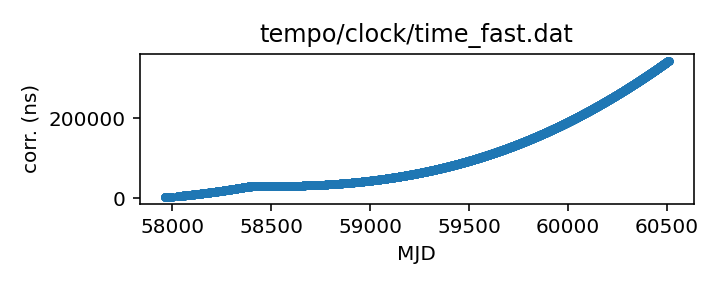
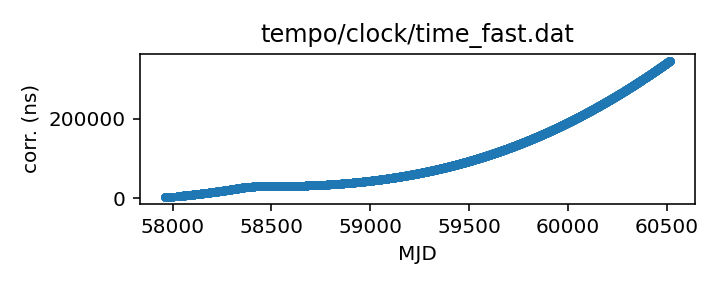
Routine gh-pages update from Github action Fri Jul 26 20:31:46 UTC 2024

Changed region(s): [[0.3667, 0.0625, 0.7944, 0.1562], [0.55, 0.8438, 0.6111, 0.9062], [0.8861, 0.25, 0.9167, 0.2812]]

diff --git a/status.md b/status.md
@@ -13,18 +13,18 @@ name of each clock file links to a page with more details.
 
 | Name | File | Corrections start | Corrections end | Last check date | Last check result 
 |:--- |:--- | --- | --- | --- |:--- 
-| [GPS to UTC](T2runtime/clock/gps2utc.clk.html) | `T2runtime/clock/gps2utc.clk` | 1993-01-01 MJD 48988.0 | 2024-04-29 MJD 60429.0 | 2024-07-25 | Unchanged 
-| [GPS to UTC (Combined Clock)](T2runtime/clock/gps2utc_cc.clk.html) | `T2runtime/clock/gps2utc_cc.clk` | 1993-01-01 MJD 48988.0 | 2024-04-29 MJD 60429.0 | 2024-07-25 | Unchanged 
-| [GPS to UTC (Corrected)](T2runtime/clock/gps2utc_c0p.clk.html) | `T2runtime/clock/gps2utc_c0p.clk` | 2010-12-29 MJD 55559.0 | 2024-04-29 MJD 60429.0 | 2024-07-25 | Unchanged 
-| [GBT](tempo/clock/time_gbt.dat.html) | `tempo/clock/time_gbt.dat` | 2000-12-31 MJD 51909.5 | 2024-05-18 MJD 60448.5 | 2024-07-25 | **Validation failed** 
+| [GPS to UTC](T2runtime/clock/gps2utc.clk.html) | `T2runtime/clock/gps2utc.clk` | 1993-01-01 MJD 48988.0 | 2024-04-29 MJD 60429.0 | 2024-07-26 | Unchanged 
+| [GPS to UTC (Combined Clock)](T2runtime/clock/gps2utc_cc.clk.html) | `T2runtime/clock/gps2utc_cc.clk` | 1993-01-01 MJD 48988.0 | 2024-04-29 MJD 60429.0 | 2024-07-26 | Unchanged 
+| [GPS to UTC (Corrected)](T2runtime/clock/gps2utc_c0p.clk.html) | `T2runtime/clock/gps2utc_c0p.clk` | 2010-12-29 MJD 55559.0 | 2024-04-29 MJD 60429.0 | 2024-07-26 | Unchanged 
+| [GBT](tempo/clock/time_gbt.dat.html) | `tempo/clock/time_gbt.dat` | 2000-12-31 MJD 51909.5 | 2024-05-18 MJD 60448.5 | 2024-07-26 | **Validation failed** 
 | [GBT (TEMPO2 converted from TEMPO)](T2runtime/clock/gbt2gps.clk.html) | `T2runtime/clock/gbt2gps.clk` | 2000-12-31 MJD 51909.5 | 2024-05-18 MJD 60448.5 | 2024-05-19 | Updated 
-| [Jodrell Bank](T2runtime/clock/jb2gps.clk.html) | `T2runtime/clock/jb2gps.clk` | 2006-10-13 MJD 54021.4 | 2023-12-04 MJD 60282.0 | 2024-07-19 | Unchanged 
-| [Jodrell Bank Roach](T2runtime/clock/jbroach2jb.clk.html) | `T2runtime/clock/jbroach2jb.clk` | 2006-10-13 MJD 54021.4 | 2018-03-20 MJD 58197.6 | 2024-07-19 | Unchanged 
-| [Jodrell Bank DFB](T2runtime/clock/jbdfb2jb.clk.html) | `T2runtime/clock/jbdfb2jb.clk` | 2006-10-13 MJD 54021.4 | 2017-05-11 MJD 57884.0 | 2024-07-19 | Unchanged 
-| [Meerkat (observatory)](T2runtime/clock/mk2utc_observatory.clk.html) | `T2runtime/clock/mk2utc_observatory.clk` | 2019-01-01 MJD 58484.0 | 2024-04-24 MJD 60425.0 | 2024-07-19 | **Failed to download** 
-| [Leap seconds](tempo/clock/leap.sec.html) | `tempo/clock/leap.sec` | 1972-07-01 MJD 41499.0 | 2017-01-01 MJD 57754.0 | 2024-07-25 | Unchanged 
-| [UT1 table](tempo/clock/ut1.dat.html) | `tempo/clock/ut1.dat` | 1973-01-02 MJD 41684.0 | 2025-08-02 MJD 60889.0 | 2024-07-25 | Updated 
-| [UT1 table](T2runtime/clock/ut1.dat.html) | `T2runtime/clock/ut1.dat` | 1973-01-02 MJD 41684.0 | 2025-08-02 MJD 60889.0 | 2024-07-25 | Updated 
+| [Jodrell Bank](T2runtime/clock/jb2gps.clk.html) | `T2runtime/clock/jb2gps.clk` | 2006-10-13 MJD 54021.4 | 2023-12-04 MJD 60282.0 | 2024-07-26 | Unchanged 
+| [Jodrell Bank Roach](T2runtime/clock/jbroach2jb.clk.html) | `T2runtime/clock/jbroach2jb.clk` | 2006-10-13 MJD 54021.4 | 2018-03-20 MJD 58197.6 | 2024-07-26 | Unchanged 
+| [Jodrell Bank DFB](T2runtime/clock/jbdfb2jb.clk.html) | `T2runtime/clock/jbdfb2jb.clk` | 2006-10-13 MJD 54021.4 | 2017-05-11 MJD 57884.0 | 2024-07-26 | Unchanged 
+| [Meerkat (observatory)](T2runtime/clock/mk2utc_observatory.clk.html) | `T2runtime/clock/mk2utc_observatory.clk` | 2019-01-01 MJD 58484.0 | 2024-04-24 MJD 60425.0 | 2024-07-26 | **Failed to download** 
+| [Leap seconds](tempo/clock/leap.sec.html) | `tempo/clock/leap.sec` | 1972-07-01 MJD 41499.0 | 2017-01-01 MJD 57754.0 | 2024-07-26 | Unchanged 
+| [UT1 table](tempo/clock/ut1.dat.html) | `tempo/clock/ut1.dat` | 1973-01-02 MJD 41684.0 | 2025-08-02 MJD 60889.0 | 2024-07-26 | Unchanged 
+| [UT1 table](T2runtime/clock/ut1.dat.html) | `T2runtime/clock/ut1.dat` | 1973-01-02 MJD 41684.0 | 2025-08-02 MJD 60889.0 | 2024-07-26 | Unchanged 
 
 
 
@@ -67,26 +67,26 @@ name of each clock file links to a page with more details.
 
 | Name | File | Corrections start | Corrections end | Last check date | Last check result 
 |:--- |:--- | --- | --- | --- |:--- 
-| [GPS to UTC (TEMPO2)](T2runtime/clock/gps2utc_tempo2.clk.html) | `T2runtime/clock/gps2utc_tempo2.clk` | 1996-03-27 MJD 50169.0 | 2022-10-27 MJD 59879.0 | 2024-07-19 | **Failed to download** 
-| [GBT (TEMPO2)](T2runtime/clock/gbt2gps_tempo2.clk.html) | `T2runtime/clock/gbt2gps_tempo2.clk` | 2000-12-31 MJD 51909.5 | 2020-02-25 MJD 58904.5 | 2024-07-19 | Unchanged 
-| [Jodrell Bank (TEMPO)](tempo/clock/time_jb.dat.html) | `tempo/clock/time_jb.dat` | 2006-10-13 MJD 54021.4 | 2019-05-13 MJD 58616.2 | 2024-07-19 | Unchanged 
-| [VLA](tempo/clock/time_vla.dat.html) | `tempo/clock/time_vla.dat` | 1990-10-27 MJD 48191.2 | 2021-03-07 MJD 59280.5 | 2024-07-19 | Unchanged 
-| [VLA (TEMPO2)](T2runtime/clock/vla2gps.clk.html) | `T2runtime/clock/vla2gps.clk` | 2015-02-01 MJD 57054.6 | 2021-03-07 MJD 59280.5 | 2024-07-19 | Unchanged 
-| [VLA to NIST](T2runtime/clock/vla2nist.clk.html) | `T2runtime/clock/vla2nist.clk` | 1990-10-27 MJD 48191.2 | 1993-11-13 MJD 49304.0 | 2024-07-19 | Unchanged 
-| [FAST](tempo/clock/time_fast.dat.html) | `tempo/clock/time_fast.dat` | 2017-07-27 MJD 57961.0 | 2024-07-17 MJD 60509.0 | 2024-07-19 | Updated 
-| [WSRT](T2runtime/clock/wsrt2gps.clk.html) | `T2runtime/clock/wsrt2gps.clk` | 1999-01-01 MJD 51179.5 | 2015-06-29 MJD 57202.1 | 2024-07-19 | Unchanged 
-| [WSRT (TEMPO)](tempo/clock/time_wsrt.dat.html) | `tempo/clock/time_wsrt.dat` | 1987-07-24 MJD 47000.0 | 2007-12-24 MJD 54458.0 | 2024-07-19 | **Validation failed** 
-| [Parkes](T2runtime/clock/pks2gps.clk.html) | `T2runtime/clock/pks2gps.clk` | 1858-11-17 MJD 0.0 | 2024-06-30 MJD 60491.1 | 2024-07-19 | Unchanged 
-| [Parkes (TEMPO)](tempo/clock/time_pks.dat.html) | `tempo/clock/time_pks.dat` | 1979-05-07 MJD 44000.0 | 2011-07-03 MJD 55745.8 | 2024-07-19 | **Validation failed** 
-| [SRT](T2runtime/clock/srt2gps.clk.html) | `T2runtime/clock/srt2gps.clk` | 2013-03-20 MJD 56371.0 | 2019-12-11 MJD 58828.0 | 2024-07-19 | Unchanged 
-| [Effelsberg](T2runtime/clock/eff2gps.clk.html) | `T2runtime/clock/eff2gps.clk` | 1993-11-29 MJD 49320.0 | 2015-06-22 MJD 57195.5 | 2024-07-19 | Unchanged 
-| [Effelsberg Asterix/PSRix](T2runtime/clock/effix2gps.clk.html) | `T2runtime/clock/effix2gps.clk` | 2011-01-01 MJD 55562.5 | 2021-03-21 MJD 59294.5 | 2024-07-19 | Unchanged 
-| [LEAP](T2runtime/clock/leap2effix.clk.html) | `T2runtime/clock/leap2effix.clk` | 2012-10-29 MJD 56230.0 | 2014-03-04 MJD 56720.0 | 2024-07-19 | Unchanged 
-| [NUPPI](tempo/clock/time_nuppi.dat.html) | `tempo/clock/time_nuppi.dat` | 2005-03-07 MJD 53436.0 | 2015-11-08 MJD 57334.6 | 2024-07-19 | Unchanged 
-| [Meerkat (TEMPO2)](T2runtime/clock/mk2utc.clk.html) | `T2runtime/clock/mk2utc.clk` | 2019-01-01 MJD 58484.0 | 2023-10-18 MJD 60235.9 | 2024-07-19 | Unchanged 
-| [MOST](T2runtime/clock/mo2gps.clk.html) | `T2runtime/clock/mo2gps.clk` | 2003-12-27 MJD 53000.0 | 2018-09-06 MJD 58367.0 | 2024-07-19 | Unchanged 
-| [Nancay to obspm](T2runtime/clock/ncyobs2obspm.clk.html) | `T2runtime/clock/ncyobs2obspm.clk` | 1988-05-18 MJD 47299.6 | 2023-10-27 MJD 60244.0 | 2024-07-19 | Unchanged 
-| [obspm](T2runtime/clock/obspm2gps.clk.html) | `T2runtime/clock/obspm2gps.clk` | 2003-12-01 MJD 52974.0 | 2023-10-27 MJD 60244.0 | 2024-07-19 | Unchanged 
+| [GPS to UTC (TEMPO2)](T2runtime/clock/gps2utc_tempo2.clk.html) | `T2runtime/clock/gps2utc_tempo2.clk` | 1996-03-27 MJD 50169.0 | 2022-10-27 MJD 59879.0 | 2024-07-26 | **Failed to download** 
+| [GBT (TEMPO2)](T2runtime/clock/gbt2gps_tempo2.clk.html) | `T2runtime/clock/gbt2gps_tempo2.clk` | 2000-12-31 MJD 51909.5 | 2020-02-25 MJD 58904.5 | 2024-07-26 | Unchanged 
+| [Jodrell Bank (TEMPO)](tempo/clock/time_jb.dat.html) | `tempo/clock/time_jb.dat` | 2006-10-13 MJD 54021.4 | 2019-05-13 MJD 58616.2 | 2024-07-26 | Unchanged 
+| [VLA](tempo/clock/time_vla.dat.html) | `tempo/clock/time_vla.dat` | 1990-10-27 MJD 48191.2 | 2021-03-07 MJD 59280.5 | 2024-07-26 | Unchanged 
+| [VLA (TEMPO2)](T2runtime/clock/vla2gps.clk.html) | `T2runtime/clock/vla2gps.clk` | 2015-02-01 MJD 57054.6 | 2021-03-07 MJD 59280.5 | 2024-07-26 | Unchanged 
+| [VLA to NIST](T2runtime/clock/vla2nist.clk.html) | `T2runtime/clock/vla2nist.clk` | 1990-10-27 MJD 48191.2 | 1993-11-13 MJD 49304.0 | 2024-07-26 | Unchanged 
+| [FAST](tempo/clock/time_fast.dat.html) | `tempo/clock/time_fast.dat` | 2017-07-27 MJD 57961.0 | 2024-07-24 MJD 60516.0 | 2024-07-26 | Updated 
+| [WSRT](T2runtime/clock/wsrt2gps.clk.html) | `T2runtime/clock/wsrt2gps.clk` | 1999-01-01 MJD 51179.5 | 2015-06-29 MJD 57202.1 | 2024-07-26 | Unchanged 
+| [WSRT (TEMPO)](tempo/clock/time_wsrt.dat.html) | `tempo/clock/time_wsrt.dat` | 1987-07-24 MJD 47000.0 | 2007-12-24 MJD 54458.0 | 2024-07-26 | **Validation failed** 
+| [Parkes](T2runtime/clock/pks2gps.clk.html) | `T2runtime/clock/pks2gps.clk` | 1858-11-17 MJD 0.0 | 2024-06-30 MJD 60491.1 | 2024-07-26 | Unchanged 
+| [Parkes (TEMPO)](tempo/clock/time_pks.dat.html) | `tempo/clock/time_pks.dat` | 1979-05-07 MJD 44000.0 | 2011-07-03 MJD 55745.8 | 2024-07-26 | **Validation failed** 
+| [SRT](T2runtime/clock/srt2gps.clk.html) | `T2runtime/clock/srt2gps.clk` | 2013-03-20 MJD 56371.0 | 2019-12-11 MJD 58828.0 | 2024-07-26 | Unchanged 
+| [Effelsberg](T2runtime/clock/eff2gps.clk.html) | `T2runtime/clock/eff2gps.clk` | 1993-11-29 MJD 49320.0 | 2015-06-22 MJD 57195.5 | 2024-07-26 | Unchanged 
+| [Effelsberg Asterix/PSRix](T2runtime/clock/effix2gps.clk.html) | `T2runtime/clock/effix2gps.clk` | 2011-01-01 MJD 55562.5 | 2021-03-21 MJD 59294.5 | 2024-07-26 | Unchanged 
+| [LEAP](T2runtime/clock/leap2effix.clk.html) | `T2runtime/clock/leap2effix.clk` | 2012-10-29 MJD 56230.0 | 2014-03-04 MJD 56720.0 | 2024-07-26 | Unchanged 
+| [NUPPI](tempo/clock/time_nuppi.dat.html) | `tempo/clock/time_nuppi.dat` | 2005-03-07 MJD 53436.0 | 2015-11-08 MJD 57334.6 | 2024-07-26 | Unchanged 
+| [Meerkat (TEMPO2)](T2runtime/clock/mk2utc.clk.html) | `T2runtime/clock/mk2utc.clk` | 2019-01-01 MJD 58484.0 | 2023-10-18 MJD 60235.9 | 2024-07-26 | Unchanged 
+| [MOST](T2runtime/clock/mo2gps.clk.html) | `T2runtime/clock/mo2gps.clk` | 2003-12-27 MJD 53000.0 | 2018-09-06 MJD 58367.0 | 2024-07-26 | Unchanged 
+| [Nancay to obspm](T2runtime/clock/ncyobs2obspm.clk.html) | `T2runtime/clock/ncyobs2obspm.clk` | 1988-05-18 MJD 47299.6 | 2023-10-27 MJD 60244.0 | 2024-07-26 | Unchanged 
+| [obspm](T2runtime/clock/obspm2gps.clk.html) | `T2runtime/clock/obspm2gps.clk` | 2003-12-01 MJD 52974.0 | 2023-10-27 MJD 60244.0 | 2024-07-26 | Unchanged 
 
 
 ### Further information:

diff --git a/tempo/clock/time_pks.dat.md b/tempo/clock/time_pks.dat.md
@@ -20,12 +20,11 @@ telescopes in the same file, distinguished only by observatory code.
 | Clock file start | 1979-05-07 MJD 44000.0 |
 | Clock file end | 2011-07-03 MJD 55745.8 |
 | Update interval (days) | 7 |
-| Last update attempt | 2024-07-19 |
+| Last update attempt | 2024-07-26 |
 | Last update result | Validation failed |
 
 Log entries from the last few update attempts:
 ```
-2024-05-17 20:29:45.220 - Validation failed: Unable to read new version of tempo/clock/time_pks.dat: Clock file /tmp/astropy-download-1787-teivf2pi appears to be out of order: 49959.0 > 49958.0
 2024-05-24 20:29:37.029 - Validation failed: Unable to read new version of tempo/clock/time_pks.dat: Clock file /tmp/astropy-download-1896-lx9qc25x appears to be out of order: 49959.0 > 49958.0
 2024-05-31 20:29:34.723 - Validation failed: Unable to read new version of tempo/clock/time_pks.dat: Clock file /tmp/astropy-download-1808-9uv0anl1 appears to be out of order: 49959.0 > 49958.0
 2024-06-07 20:29:32.720 - Validation failed: Unable to read new version of tempo/clock/time_pks.dat: Clock file /tmp/astropy-download-1810-bf_kz8b_ appears to be out of order: 49959.0 > 49958.0
@@ -35,6 +34,7 @@ Log entries from the last few update attempts:
 2024-07-05 20:29:58.943 - Validation failed: Unable to read new version of tempo/clock/time_pks.dat: Clock file /tmp/astropy-download-1810-trqtm1kr appears to be out of order: 49959.0 > 49958.0
 2024-07-12 20:29:38.960 - Validation failed: Unable to read new version of tempo/clock/time_pks.dat: Clock file /tmp/astropy-download-1798-05ao87af appears to be out of order: 49959.0 > 49958.0
 2024-07-19 20:31:11.515 - Validation failed: Unable to read new version of tempo/clock/time_pks.dat: Clock file /tmp/astropy-download-1879-v7corvfs appears to be out of order: 49959.0 > 49958.0
+2024-07-26 20:31:11.561 - Validation failed: Unable to read new version of tempo/clock/time_pks.dat: Clock file /tmp/astropy-download-1771-ynhf0azv appears to be out of order: 49959.0 > 49958.0
 ```
 [Full log](https://raw.githubusercontent.com/ipta/pulsar-clock-corrections/main/log/tempo/clock/time_pks.dat.log)
 

diff --git a/tempo/clock/time_wsrt.dat.md b/tempo/clock/time_wsrt.dat.md
@@ -20,12 +20,11 @@ should be the same information.
 | Clock file start | 1987-07-24 MJD 47000.0 |
 | Clock file end | 2007-12-24 MJD 54458.0 |
 | Update interval (days) | 7 |
-| Last update attempt | 2024-07-19 |
+| Last update attempt | 2024-07-26 |
 | Last update result | Validation failed |
 
 Log entries from the last few update attempts:
 ```
-2024-05-17 20:29:41.596 - Validation failed: Unable to read new version of tempo/clock/time_wsrt.dat: Clock file /tmp/astropy-download-1787-h7p7w40s appears to be out of order: 53000.05 > 53000.0
 2024-05-24 20:29:31.949 - Validation failed: Unable to read new version of tempo/clock/time_wsrt.dat: Clock file /tmp/astropy-download-1896-o2eimvbo appears to be out of order: 53000.05 > 53000.0
 2024-05-31 20:29:29.819 - Validation failed: Unable to read new version of tempo/clock/time_wsrt.dat: Clock file /tmp/astropy-download-1808-s7arrwqh appears to be out of order: 53000.05 > 53000.0
 2024-06-07 20:29:27.848 - Validation failed: Unable to read new version of tempo/clock/time_wsrt.dat: Clock file /tmp/astropy-download-1810-vr839f9d appears to be out of order: 53000.05 > 53000.0
@@ -35,6 +34,7 @@ Log entries from the last few update attempts:
 2024-07-05 20:29:55.289 - Validation failed: Unable to read new version of tempo/clock/time_wsrt.dat: Clock file /tmp/astropy-download-1810-6x_oo0y2 appears to be out of order: 53000.05 > 53000.0
 2024-07-12 20:29:34.055 - Validation failed: Unable to read new version of tempo/clock/time_wsrt.dat: Clock file /tmp/astropy-download-1798-yen7urfq appears to be out of order: 53000.05 > 53000.0
 2024-07-19 20:31:07.763 - Validation failed: Unable to read new version of tempo/clock/time_wsrt.dat: Clock file /tmp/astropy-download-1879-ofamkhs8 appears to be out of order: 53000.05 > 53000.0
+2024-07-26 20:31:07.591 - Validation failed: Unable to read new version of tempo/clock/time_wsrt.dat: Clock file /tmp/astropy-download-1771-gsrg9qrm appears to be out of order: 53000.05 > 53000.0
 ```
 [Full log](https://raw.githubusercontent.com/ipta/pulsar-clock-corrections/main/log/tempo/clock/time_wsrt.dat.log)
 

diff --git a/tempo/clock/time_gbt.dat.md b/tempo/clock/time_gbt.dat.md
@@ -33,12 +33,11 @@ If questions arise, contact Ryan S. Lynch <rlynch@nrao.edu>.
 | Clock file start | 2000-12-31 MJD 51909.5 |
 | Clock file end | 2024-05-18 MJD 60448.5 |
 | Update interval (days) | 1 |
-| Last update attempt | 2024-07-25 |
+| Last update attempt | 2024-07-26 |
 | Last update result | Validation failed |
 
 Log entries from the last few update attempts:
 ```
-2024-07-16 20:29:26.200 - Validation failed: New version of tempo/clock/time_gbt.dat clock corrections differ from old version where they overlap in 11 places
 2024-07-17 20:29:50.997 - Validation failed: New version of tempo/clock/time_gbt.dat clock corrections differ from old version where they overlap in 11 places
 2024-07-18 20:29:59.918 - Validation failed: New version of tempo/clock/time_gbt.dat clock corrections differ from old version where they overlap in 11 places
 2024-07-19 20:31:02.747 - Validation failed: New version of tempo/clock/time_gbt.dat clock corrections differ from old version where they overlap in 11 places
@@ -48,6 +47,7 @@ Log entries from the last few update attempts:
 2024-07-23 20:29:50.920 - Validation failed: New version of tempo/clock/time_gbt.dat clock corrections differ from old version where they overlap in 11 places
 2024-07-24 20:29:37.378 - Validation failed: New version of tempo/clock/time_gbt.dat clock corrections differ from old version where they overlap in 11 places
 2024-07-25 20:29:35.888 - Validation failed: New version of tempo/clock/time_gbt.dat clock corrections differ from old version where they overlap in 11 places
+2024-07-26 20:31:04.102 - Validation failed: New version of tempo/clock/time_gbt.dat clock corrections differ from old version where they overlap in 11 places
 ```
 [Full log](https://raw.githubusercontent.com/ipta/pulsar-clock-corrections/main/log/tempo/clock/time_gbt.dat.log)
 

diff --git a/T2runtime/clock/gps2utc_tempo2.clk.md b/T2runtime/clock/gps2utc_tempo2.clk.md
@@ -27,12 +27,11 @@ are from the column C0').
 | Clock file start | 1996-03-27 MJD 50169.0 |
 | Clock file end | 2022-10-27 MJD 59879.0 |
 | Update interval (days) | 7 |
-| Last update attempt | 2024-07-19 |
+| Last update attempt | 2024-07-26 |
 | Last update result | Failed to download |
 
 Log entries from the last few update attempts:
 ```
-2024-05-17 20:29:05.507 - Failed to download: HTTP Error 404: Not Found
 2024-05-24 20:29:09.014 - Failed to download: HTTP Error 404: Not Found
 2024-05-31 20:29:06.760 - Failed to download: HTTP Error 404: Not Found
 2024-06-07 20:29:04.633 - Failed to download: HTTP Error 404: Not Found
@@ -42,6 +41,7 @@ Log entries from the last few update attempts:
 2024-07-05 20:29:14.464 - Failed to download: HTTP Error 404: Not Found
 2024-07-12 20:29:07.006 - Failed to download: HTTP Error 404: Not Found
 2024-07-19 20:30:26.761 - Failed to download: HTTP Error 404: Not Found
+2024-07-26 20:30:27.098 - Failed to download: HTTP Error 404: Not Found
 ```
 [Full log](https://raw.githubusercontent.com/ipta/pulsar-clock-corrections/main/log/T2runtime/clock/gps2utc_tempo2.clk.log)
 

diff --git a/T2runtime/clock/mk2utc_observatory.clk.md b/T2runtime/clock/mk2utc_observatory.clk.md
@@ -21,12 +21,11 @@ If questions arise, contact Ryan Shannon <rshannon@swin.edu.au>
 | Clock file start | 2019-01-01 MJD 58484.0 |
 | Clock file end | 2024-04-24 MJD 60425.0 |
 | Update interval (days) | 7 |
-| Last update attempt | 2024-07-19 |
+| Last update attempt | 2024-07-26 |
 | Last update result | Failed to download |
 
 Log entries from the last few update attempts:
 ```
-2024-05-17 20:29:50.578 - Unchanged
 2024-05-24 20:29:41.581 - Unchanged
 2024-05-31 20:29:41.668 - Unchanged
 2024-06-07 20:29:36.289 - Unchanged
@@ -36,6 +35,7 @@ Log entries from the last few update attempts:
 2024-07-05 20:30:07.740 - Unchanged
 2024-07-12 20:29:44.446 - Unchanged
 2024-07-19 20:31:14.053 - Failed to download: HTTP Error 403: Forbidden
+2024-07-26 20:31:14.162 - Failed to download: HTTP Error 403: Forbidden
 ```
 [Full log](https://raw.githubusercontent.com/ipta/pulsar-clock-corrections/main/log/T2runtime/clock/mk2utc_observatory.clk.log)
 

diff --git a/tempo/clock/time_fast.dat.md b/tempo/clock/time_fast.dat.md
@@ -14,14 +14,13 @@ This file is pulled from the FAST_ClockFile repository.
 | Format | tempo |
 | Bogus last correction | False |
 | Clock file start | 2017-07-27 MJD 57961.0 |
-| Clock file end | 2024-07-17 MJD 60509.0 |
+| Clock file end | 2024-07-24 MJD 60516.0 |
 | Update interval (days) | 7 |
-| Last update attempt | 2024-07-19 |
+| Last update attempt | 2024-07-26 |
 | Last update result | Updated |
 
 Log entries from the last few update attempts:
 ```
-2024-05-17 20:29:40.999 - Updated
 2024-05-24 20:29:31.229 - Updated
 2024-05-31 20:29:29.072 - Updated
 2024-06-07 20:29:27.480 - Updated
@@ -31,6 +30,7 @@ Log entries from the last few update attempts:
 2024-07-05 20:29:54.615 - Updated
 2024-07-12 20:29:33.643 - Updated
 2024-07-19 20:31:06.912 - Updated
+2024-07-26 20:31:07.124 - Updated
 ```
 [Full log](https://raw.githubusercontent.com/ipta/pulsar-clock-corrections/main/log/tempo/clock/time_fast.dat.log)
 

diff --git a/T2runtime/clock/gps2utc_c0p.clk.md b/T2runtime/clock/gps2utc_c0p.clk.md
@@ -30,12 +30,11 @@ about the BIPM's published corrections, contact <tai@bipm.org>.
 | Clock file start | 2010-12-29 MJD 55559.0 |
 | Clock file end | 2024-04-29 MJD 60429.0 |
 | Update interval (days) | 1 |
-| Last update attempt | 2024-07-25 |
+| Last update attempt | 2024-07-26 |
 | Last update result | Unchanged |
 
 Log entries from the last few update attempts:
 ```
-2024-07-16 20:29:25.931 - Unchanged
 2024-07-17 20:29:50.782 - Unchanged
 2024-07-18 20:29:59.607 - Unchanged
 2024-07-19 20:31:01.777 - Unchanged
@@ -45,6 +44,7 @@ Log entries from the last few update attempts:
 2024-07-23 20:29:50.468 - Unchanged
 2024-07-24 20:29:36.973 - Unchanged
 2024-07-25 20:29:35.478 - Unchanged
+2024-07-26 20:31:03.295 - Unchanged
 ```
 [Full log](https://raw.githubusercontent.com/ipta/pulsar-clock-corrections/main/log/T2runtime/clock/gps2utc_c0p.clk.log)
 

diff --git a/T2runtime/clock/gps2utc_cc.clk.md b/T2runtime/clock/gps2utc_cc.clk.md
@@ -29,12 +29,11 @@ about the BIPM's published corrections, contact <tai@bipm.org>.
 | Clock file start | 1993-01-01 MJD 48988.0 |
 | Clock file end | 2024-04-29 MJD 60429.0 |
 | Update interval (days) | 1 |
-| Last update attempt | 2024-07-25 |
+| Last update attempt | 2024-07-26 |
 | Last update result | Unchanged |
 
 Log entries from the last few update attempts:
 ```
-2024-07-16 20:29:25.920 - Unchanged
 2024-07-17 20:29:50.771 - Unchanged
 2024-07-18 20:29:59.596 - Unchanged
 2024-07-19 20:31:01.764 - Unchanged
@@ -44,6 +43,7 @@ Log entries from the last few update attempts:
 2024-07-23 20:29:50.457 - Unchanged
 2024-07-24 20:29:36.962 - Unchanged
 2024-07-25 20:29:35.467 - Unchanged
+2024-07-26 20:31:03.281 - Unchanged
 ```
 [Full log](https://raw.githubusercontent.com/ipta/pulsar-clock-corrections/main/log/T2runtime/clock/gps2utc_cc.clk.log)
 

diff --git a/T2runtime/clock/gps2utc.clk.md b/T2runtime/clock/gps2utc.clk.md
@@ -32,12 +32,11 @@ about the BIPM's published corrections, contact <tai@bipm.org>.
 | Clock file start | 1993-01-01 MJD 48988.0 |
 | Clock file end | 2024-04-29 MJD 60429.0 |
 | Update interval (days) | 1 |
-| Last update attempt | 2024-07-25 |
+| Last update attempt | 2024-07-26 |
 | Last update result | Unchanged |
 
 Log entries from the last few update attempts:
 ```
-2024-07-16 20:29:25.892 - Unchanged
 2024-07-17 20:29:50.742 - Unchanged
 2024-07-18 20:29:59.567 - Unchanged
 2024-07-19 20:31:01.734 - Unchanged
@@ -47,6 +46,7 @@ Log entries from the last few update attempts:
 2024-07-23 20:29:50.429 - Unchanged
 2024-07-24 20:29:36.935 - Unchanged
 2024-07-25 20:29:35.440 - Unchanged
+2024-07-26 20:31:03.249 - Unchanged
 ```
 [Full log](https://raw.githubusercontent.com/ipta/pulsar-clock-corrections/main/log/T2runtime/clock/gps2utc.clk.log)
 

diff --git a/T2runtime/clock/ut1.dat.md b/T2runtime/clock/ut1.dat.md
@@ -30,12 +30,11 @@ If there are any questions, contact Anne Archibald
 | File start | 1973-01-02 MJD 41684.0 |
 | File end | 2025-08-02 MJD 60889.0 |
 | Update interval (days) | 0 |
-| Last update attempt | 2024-07-25 |
-| Last update result | Updated |
+| Last update attempt | 2024-07-26 |
+| Last update result | Unchanged |
 
 Log entries from the last few update attempts:
 ```
-2024-07-16 20:29:33.973 - Unchanged
 2024-07-17 20:29:59.490 - Unchanged
 2024-07-18 20:30:07.656 - Updated
 2024-07-19 20:31:28.263 - Unchanged
@@ -45,5 +44,6 @@ Log entries from the last few update attempts:
 2024-07-23 20:29:59.289 - Unchanged
 2024-07-24 20:29:46.409 - Unchanged
 2024-07-25 20:29:43.517 - Updated
+2024-07-26 20:31:28.748 - Unchanged
 ```
 [Full log](https://raw.githubusercontent.com/ipta/pulsar-clock-corrections/main/log/T2runtime/clock/ut1.dat.log)

diff --git a/T2runtime/clock/ncyobs2obspm.clk.md b/T2runtime/clock/ncyobs2obspm.clk.md
@@ -22,12 +22,11 @@ thus here) can be expected to be somewhat up to date.
 | Clock file start | 1988-05-18 MJD 47299.6 |
 | Clock file end | 2023-10-27 MJD 60244.0 |
 | Update interval (days) | 7 |
-| Last update attempt | 2024-07-19 |
+| Last update attempt | 2024-07-26 |
 | Last update result | Unchanged |
 
 Log entries from the last few update attempts:
 ```
-2024-05-17 20:29:52.144 - Unchanged
 2024-05-24 20:29:42.191 - Unchanged
 2024-05-31 20:29:42.384 - Unchanged
 2024-06-07 20:29:36.852 - Unchanged
@@ -37,6 +36,7 @@ Log entries from the last few update attempts:
 2024-07-05 20:30:09.528 - Unchanged
 2024-07-12 20:29:45.234 - Unchanged
 2024-07-19 20:31:15.066 - Unchanged
+2024-07-26 20:31:15.223 - Unchanged
 ```
 [Full log](https://raw.githubusercontent.com/ipta/pulsar-clock-corrections/main/log/T2runtime/clock/ncyobs2obspm.clk.log)
 
